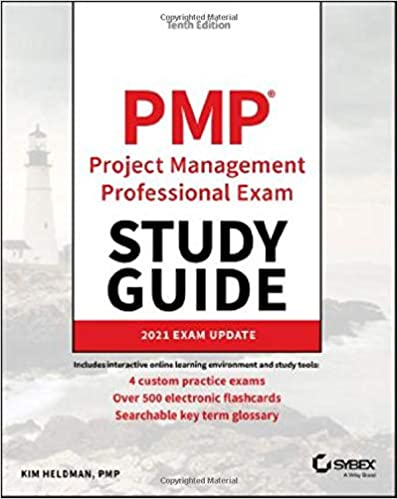
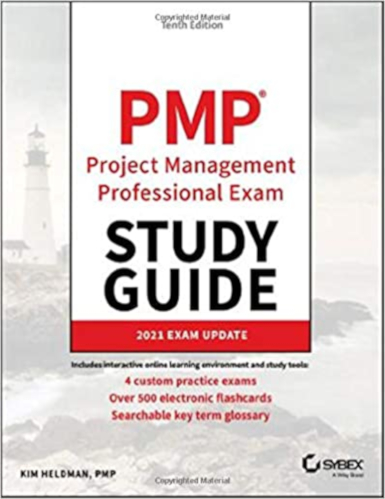
resized images to uniform size

diff --git a/products/templates/products/products.html b/products/templates/products/products.html
@@ -23,53 +23,56 @@
                 <div class="row mt-1 mb-2"></div>
                 <div class="row">
                     {% for product in products %}
-                        <div class="col-sm-6 col-md-6 col-lg-4 col-xl-3">
-                            <div class="card h-100 border-0">
-                                {% if product.image %}
-                                <a href="{% url 'product_detail' product.id %}">
-                                    <img class="card-img-top img-fluid" src="{{ product.image.url }}" alt="{{ product.name }}">
-                                </a>
-                                {% else %}
-                                <a href="{% url 'product_detail' product.id %}">
-                                    <img class="card-img-top img-fluid" src="{{ MEDIA_URL }}noimage.png" alt="{{ product.name }}">
-                                </a>
-                                {% endif %}
-                                <div class="card-body pb-0">
-                                    <p class="mb-0">{{ product.name }}</p>
-                                </div>
-                                <div class="card-footer bg-white pt-0 border-0 text-left">
-                                    <div class="row">
-                                        <div class="col">
-                                            <p class="lead mb-0 text-left font-weight-bold">€{{ product.price }}</p>
-                                            {% if product.rating %}
-                                                <small class="text-muted"><i class="fas fa-star mr-1"></i>{{ product.rating }} / 5</small>
-                                            {% else %}
-                                                <small class="text-muted">No Rating</small>
-                                            {% endif %}
+                        {% if not product.is_a_service %}
+                            <div class="col-sm-6 col-md-6 col-lg-4 col-xl-3">
+                                <div class="card h-100 border-0">
+                                    {% if product.image %}
+                                    <a href="{% url 'product_detail' product.id %}">
+                                        <img class="card-img-top img-fluid" src="{{ product.image.url }}" alt="{{ product.name }}">
+                                    </a>
+                                    {% else %}
+                                    <a href="{% url 'product_detail' product.id %}">
+                                        <img class="card-img-top img-fluid" src="{{ MEDIA_URL }}noimage.png" alt="{{ product.name }}">
+                                    </a>
+                                    {% endif %}
+                                    <div class="card-body pb-0">
+                                        <p class="mb-0">{{ product.name }}</p>
+                                    </div>
+                                    <div class="card-footer bg-white pt-0 border-0 text-left">
+                                        <div class="row">
+                                            <div class="col">
+                                                <p class="lead mb-0 text-left font-weight-bold">€{{ product.price }}</p>
+                                                {% if product.rating %}
+                                                    <small class="text-muted"><i class="fas fa-star mr-1"></i>{{ product.rating }} / 5</small>
+                                                {% else %}
+                                                    <small class="text-muted">No Rating</small>
+                                                {% endif %}
+                                                <p class="text-muted">by&nbsp{{ product.author }}</p>
+                                            </div>
                                         </div>
                                     </div>
                                 </div>
                             </div>
-                        </div>
-                        {% if forloop.counter|divisibleby:1 %}
-                            <div class="col-12 d-sm-none mb-5">
-                                <hr>
-                            </div>
-                        {% endif %}                        
-                        {% if forloop.counter|divisibleby:2 %}
-                            <div class="col-12 d-none d-sm-block d-md-block d-lg-none mb-5">
-                                <hr>
-                            </div>
-                        {% endif %}
-                        {% if forloop.counter|divisibleby:3 %}
-                            <div class="col-12 d-none d-lg-block d-xl-none mb-5">
-                                <hr>
-                            </div>
-                        {% endif %}
-                        {% if forloop.counter|divisibleby:4 %}
-                            <div class="col-12 d-none d-xl-block mb-5">
-                                <hr>
-                            </div>
+                            {% if forloop.counter|divisibleby:1 %}
+                                <div class="col-12 d-sm-none mb-5">
+                                    <hr>
+                                </div>
+                            {% endif %}                        
+                            {% if forloop.counter|divisibleby:2 %}
+                                <div class="col-12 d-none d-sm-block d-md-block d-lg-none mb-5">
+                                    <hr>
+                                </div>
+                            {% endif %}
+                            {% if forloop.counter|divisibleby:3 %}
+                                <div class="col-12 d-none d-lg-block d-xl-none mb-5">
+                                    <hr>
+                                </div>
+                            {% endif %}
+                            {% if forloop.counter|divisibleby:4 %}
+                                <div class="col-12 d-none d-xl-block mb-5">
+                                    <hr>
+                                </div>
+                            {% endif %}
                         {% endif %}
                     {% endfor %}
                 </div>

diff --git a/products/templates/products/product_detail.html b/products/templates/products/product_detail.html
@@ -35,6 +35,7 @@
                     {% else %}
                         <small class="text-muted">No Rating</small>
                     {% endif %}
+                    <p class="text-muted">by&nbsp{{ product.author }}</p>
                     <p class="mt-3">{{ product.description }}</p>
                 </div>
             </div>
